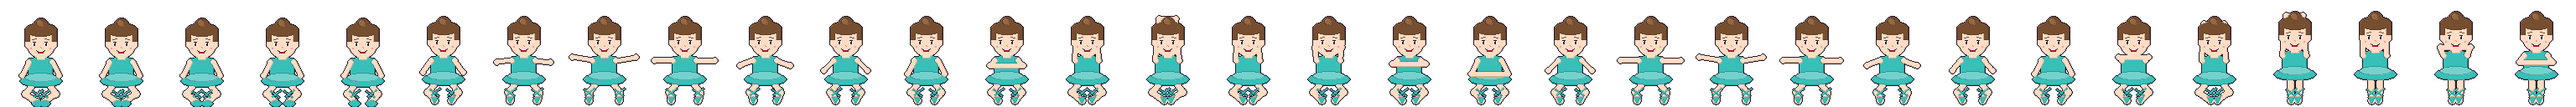
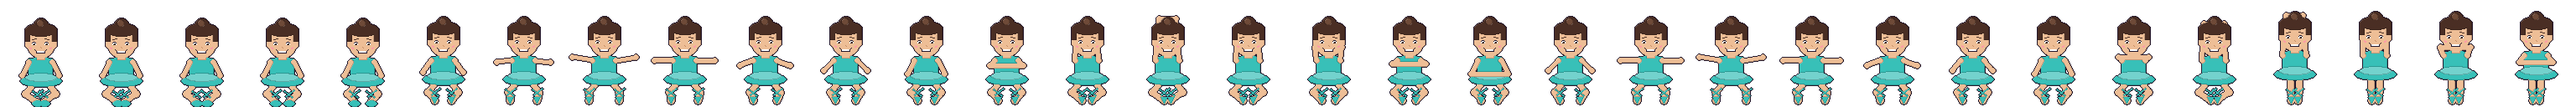
Dance Evolution: Lainey's face from her own photos
Long dark-brown wavy hair (bunches with bows as a nursery tot), warm olive
skin, almond eyes that crinkle, a wide beaming smile with the teeth
together. dance-v28.

Claude-Session: https://claude.ai/code/session_01KjbiH1Gxo3FA48ifQDakKd

Changed region(s): [[0.0, 0.125, 1.0, 0.7188], [0.0, 0.75, 1.0, 0.9688]]

diff --git a/dance/sw.js b/dance/sw.js
@@ -1,6 +1,6 @@
 // Dance Evolution service worker: the app shell is cached on install; the beast pictures and anything else under ../art
 // are cached as they are first fetched (cache first after that). Bump CACHE together with APP_VERSION in app.js.
-const CACHE = 'dance-v27';
+const CACHE = 'dance-v28';
 const SHELL = ['./', 'index.html', 'app.js', 'style.css', 'manifest.webmanifest', 'dancers.json', 'art/font.json', 'art/font.png'];
 self.addEventListener('install', e => { e.waitUntil(caches.open(CACHE).then(c => Promise.all(SHELL.map(u => c.add(u).catch(() => {})))).then(() => self.skipWaiting())); });
 self.addEventListener('activate', e => { e.waitUntil(caches.keys().then(ks => Promise.all(ks.filter(k => k.startsWith('dance-') && k !== CACHE).map(k => caches.delete(k)))).then(() => self.clients.claim())); });

diff --git a/dance/app.js b/dance/app.js
@@ -4,7 +4,7 @@
    decision, 30 Oct 2026: the names are fixed in the game); a level is "<stage> <name>". Save in
    localStorage['dance.save']; nothing is sent anywhere. */
 'use strict';
-const APP_VERSION = '27';
+const APP_VERSION = '28';
 const ART = 'art/';
 const NAMES = ['Lainey', 'Miri', 'Juliette'];   // youngest first
 let SPEC = null;

diff --git a/CLAUDE.md b/CLAUDE.md
@@ -629,7 +629,7 @@ exception to the no-names rule above and it covers the three first names only (n
 photo he sent to set the looks is not in the repo and must never be); a level is `nameOf(c)` = "<stage> <name>" ("Baby
 …", "Tot …", … "Legend …"). The earlier ask-on-first-use sheet is gone. The looks, youngest first: wavy shoulder-length hair with a side parting, long dark curls with a headband, long straight dark hair. **Each sister has a colour family for every costume** (`COL` in `sisters3.py`: Lainey teal, Miri pink, Juliette purple — main / light / dark; the Swan tutu stays white and the Legend gown gold, with the sister's colour on the bodice or panel), and **every stage has its own silhouette** so no two levels of a sister look alike: Baby nappy, Tot small tutu, Nursery party dress with a bow / crown / flower, Leotard plain leotard, Dance school a class look (hair in a bun — Miri's with her headband, `bunband` — dark practice skirt, white tights), First tutu a big pale tutu with a dark bodice and a bow / tiara / flower, Jazz black skirt and sparkles, En pointe bun + tutu + crossed shoe ribbons (`ribbons`), Swan white tutu + tiara, Prima dark bodice + crown, Street cap (over her curls) and jeans, Stage star fringe + mic / star, World tour flamenco ruffles / coin skirt / fan gown, Legend gold gown. **Art**: 16-bit-style pixel sprites, **96 × 128** (since v25; 48 × 64 before), one dark outline, an
 automatic shade / highlight pass, drawn by the session scratchpad generators `scratchpad/dancers/fig2.py` (the palette and the first parametric
-figure), **`fig4.py`** (the 96 × 128 figure: it runs `fig3`'s pose/body code through a doubling canvas `S2` and paints a real face after the shading — brows, 4 × 5 eyes with an iris and glint, a nose, blush, and **each sister's own smile from the owner's photo (never in the repo): Lainey light-brown wavy hair `hairl`, side parting, open grin `face: 'open'`; Miri dark curls, maroon headband `band`, olive skin `skin2`, closed warm smile; Juliette a longer oval face, long straight dark-brown hair with a shine, fair skin `skin0` with rosy cheeks, big dark eyes, defined 1-px brows, a very wide toothy grin `'grin'`, stud earrings; the hairline leaves a forehead above every sister's brows** — plus hair shines, `updo`, `earrings`, a `cane`) and **`sisters4.py`** (= `sisters3.py` on `figure4` with the three new stages; `sisters3.py` + `fig3.py` (`choreography.md` beside them is the plan): **each sister has a movement personality that holds through every stage, so she is known without her name — Lainey jumps (lifts, squats, leaps), Miri flows (arms, balances, sways, head tilts), Juliette turns (spins, footwork, clean finishes)** — and **the moves climb a real ladder** (toddler bounce / sway / tiptoe / gallop → primary-class pliés, tendus, sautés, port de bras → arabesque, échappé, pas de chat, développé, a single pirouette → jazz kick-ball-change, isolations, jazz square + pivot → pointe échappés, bourrée, piqué turns → swan sissonnes, swan arms + penché, bourrée en tournant → grand jeté, attitude promenade, fouettés → running man, body wave, two-step + freeze → kick line + split leap, mic turn, chaînés → flamenco / belly dance / fan dance → grand jeté manège, penché, fouettés, all into a révérence); the Baby crawls (Lainey fast then bum-bounces; Miri sits rocking and clapping with a short crawl; Juliette crawls and pushes up to kneel). Keyframes are eased to 32 frames (40 for Baby, Prima, Legend). `fig3.figure3` takes a continuous `pose` — limb endpoints, optional knees `lk/rk`, elbows `le/re`, `sink` (hips drop for a plié), lean, bend, lift, `pointe`, `jazz` hands, a `turn` that squashes and mirrors the sprite, and for babies `tilt` 0 crawl → 1 sit, `knees` 1 kneel, `stride`; `loop(keys, n)` eases between weighted keyframes, `turn` always forwards — → `dance/art/sNN_G.png` horizontal sprite sheets + `dancers.json`; the older `sisters.py` / `fig2.figure` drew the first 6–8 still poses); `spriteHTML(c, scale)` shows a sheet as a
+figure), **`fig4.py`** (the 96 × 128 figure: it runs `fig3`'s pose/body code through a doubling canvas `S2` and paints a real face after the shading — brows, 4 × 5 eyes with an iris and glint, a nose, blush, and **each sister's own smile from the owner's photo (never in the repo): Lainey long dark-brown slightly wavy hair `hairm` past the shoulders (bunches with blue bows at Nursery, `bunches`), warm olive skin `skin1`, almond eyes crinkled by her smile, a wide beaming smile with the teeth together `face: 'open'`; Miri dark curls, maroon headband `band`, olive skin `skin2`, closed warm smile; Juliette a longer oval face, long straight dark-brown hair with a shine, fair skin `skin0` with rosy cheeks, big dark eyes, defined 1-px brows, a very wide toothy grin `'grin'`, stud earrings; the hairline leaves a forehead above every sister's brows** — plus hair shines, `updo`, `earrings`, a `cane`) and **`sisters4.py`** (= `sisters3.py` on `figure4` with the three new stages; `sisters3.py` + `fig3.py` (`choreography.md` beside them is the plan): **each sister has a movement personality that holds through every stage, so she is known without her name — Lainey jumps (lifts, squats, leaps), Miri flows (arms, balances, sways, head tilts), Juliette turns (spins, footwork, clean finishes)** — and **the moves climb a real ladder** (toddler bounce / sway / tiptoe / gallop → primary-class pliés, tendus, sautés, port de bras → arabesque, échappé, pas de chat, développé, a single pirouette → jazz kick-ball-change, isolations, jazz square + pivot → pointe échappés, bourrée, piqué turns → swan sissonnes, swan arms + penché, bourrée en tournant → grand jeté, attitude promenade, fouettés → running man, body wave, two-step + freeze → kick line + split leap, mic turn, chaînés → flamenco / belly dance / fan dance → grand jeté manège, penché, fouettés, all into a révérence); the Baby crawls (Lainey fast then bum-bounces; Miri sits rocking and clapping with a short crawl; Juliette crawls and pushes up to kneel). Keyframes are eased to 32 frames (40 for Baby, Prima, Legend). `fig3.figure3` takes a continuous `pose` — limb endpoints, optional knees `lk/rk`, elbows `le/re`, `sink` (hips drop for a plié), lean, bend, lift, `pointe`, `jazz` hands, a `turn` that squashes and mirrors the sprite, and for babies `tilt` 0 crawl → 1 sit, `knees` 1 kneel, `stride`; `loop(keys, n)` eases between weighted keyframes, `turn` always forwards — → `dance/art/sNN_G.png` horizontal sprite sheets + `dancers.json`; the older `sisters.py` / `fig2.figure` drew the first 6–8 still poses); `spriteHTML(c, scale)` shows a sheet as a
 div (`data-frames`, `data-fw`; `SCALE` = 0.875 on the field so a dancer is still 84 × 112 on screen, .5 in the Dancepedia, 1.5 in the fanfare and detail) whose frame is stepped by a JavaScript interval every 40 ms (`frameNo`; not CSS keyframes — a level came up blank on the owner's iPhone with the CSS version), `image-rendering: pixelated`; `preloadSheets()` fetches all 42 sheets at the start; **a Baby only moves across the floor while her loop is crawling** (`crawl` in `dancers.json` lists each baby level's runs of all-fours frames; `wander` lets her set off only in the first frames of a run and sets the glide to the run's length), on the field at
 `SCALE` 1.75, in the Dancepedia at 1 (still), in the fanfare and detail at 3. **Everything else is pixel art too** (`scratchpad/dancers/icons.py`, `backgrounds.py` → `dance/art/`): the five rooms (`bg_nursery` a girl's bedroom — bed, teddy, shelf, window with curtains, ballerina poster, lamp, rug; `bg_school` mirror and barre; `bg_theatre` curtains and spotlights; `bg_city` night street with a neon sign; `bg_tour` sunset festival with bunting and lanterns; 96 × 128, the floor from row 70, stretched over the field with `image-rendering: pixelated`, the old gradient ground hidden), a 6-frame spinning coin (`coin.png`, `.coinspin` in the top bar; `coin1.png` as the `i.cn` inline coin wherever an amount is printed), the dance bag (`bag.png`: crates, the bag button and the sheet), the ballet shoe (`shoe.png`, Invite), the applause icon (`clap.png`; the rose `rose.png` is unused: every drop is a coin since the owner found claps and roses confusing; the first dance bag carries a "A new dancer is inside — tap it!" tag, `save.bagsOpened`), and the sheet / bar icons (`stage`, `manager`, `star`, `home`, `book`, `up`). Buy is Invite, the tractor is the Manager. Above each dancer's head is her name in two lines of black pixel text, no box, at 38 % opacity until she is touched or dragged (`.hold` / `.drag` → full black) (`lvHTML(n, c)` → `pixText(stage)` + `pixText(name)`: the 5 × 7 font `art/font.png`, glyph order in `art/font.json`, `FONT`; accents stripped, unknown characters skipped; `top` in `dancers.json` is each sheet's first drawn row, so the text sits at `top × SCALE − 36`). `art/digits.png` is the earlier digits-only font, unused. The save is written at once on every change (no debounce). **Move my game** (in the Upgrades sheet, `moveSheet`): a save code (`saveCode()`, base64 of { s: save }) to copy / share and paste into another app or phone — needed because an iPhone home-screen app and Safari keep separate storage, which looked like a wipe to the owner. App icon: two pointe shoes seen from the front with crossed ribbons, after a cross-stitch pattern the owner sent, on pink (`dance/icons/`, drawn by `scratchpad/dancers/icon3.py`; `index.html` and the manifest point at it). Test: `scratchpad/dance.js`. Listed in `languages.json`.
 
